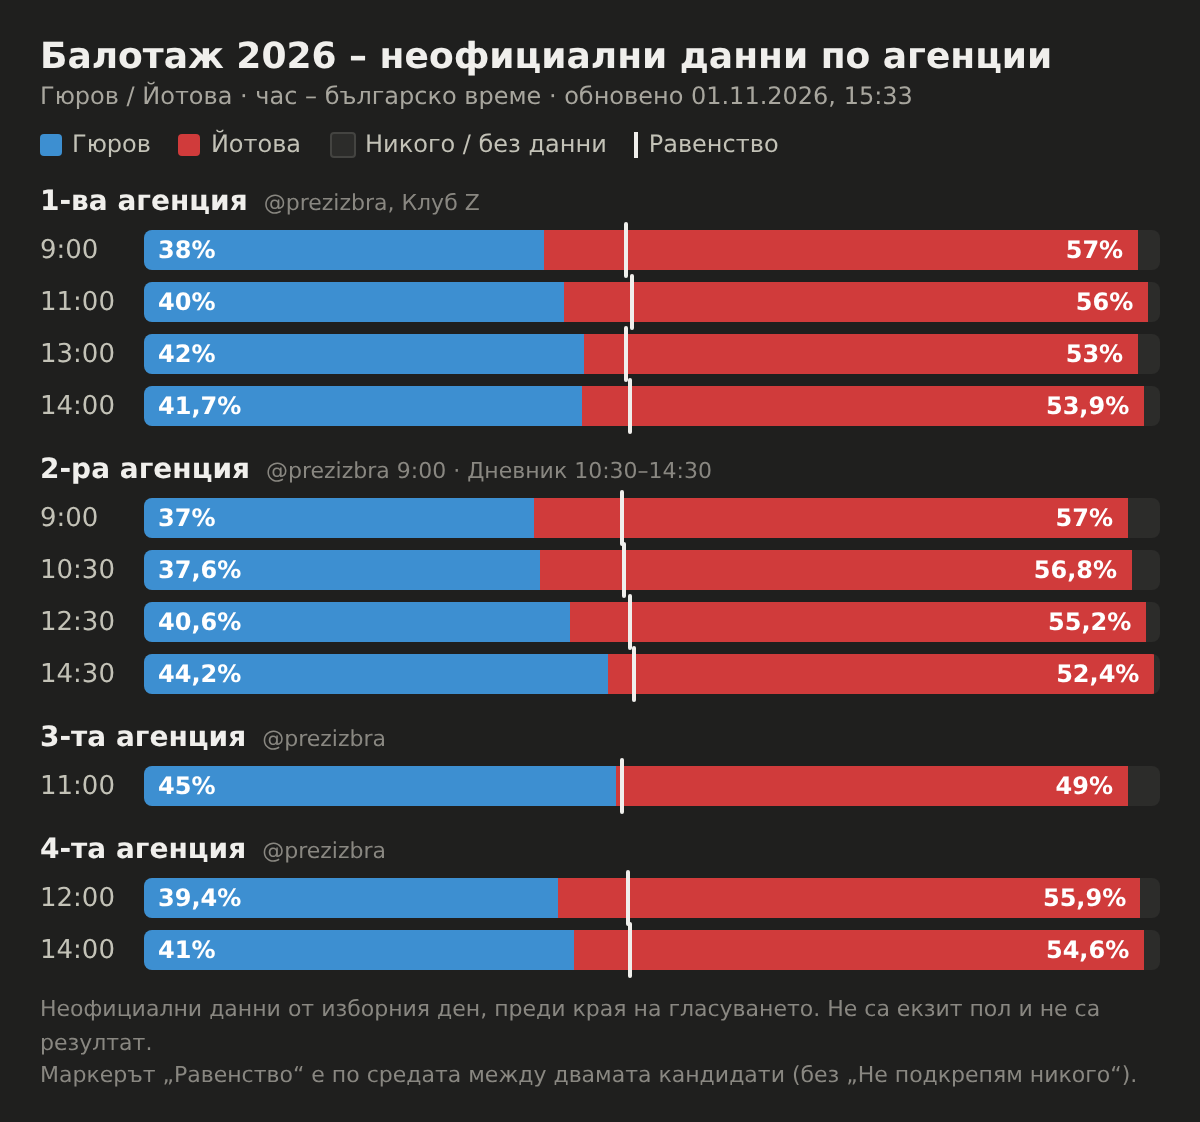
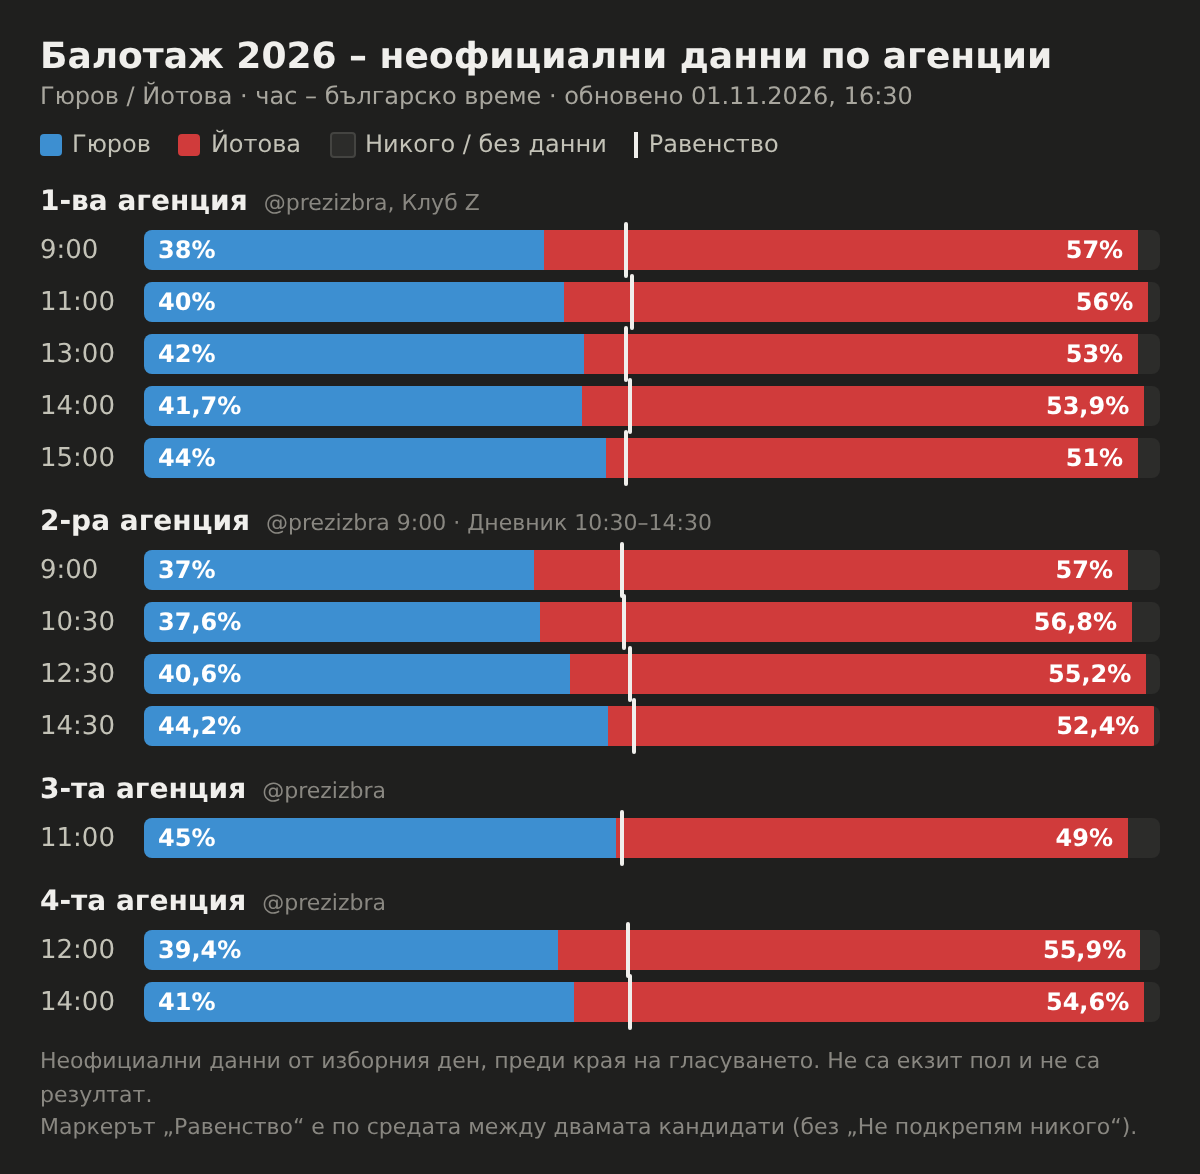
Балотаж 01.11.2026: обновяване 16:30 (1-ва агенция, 15:00)
Claude-Session: https://claude.ai/code/session_013Bd4dyu327vEa7zhwf3xyn

Changed region(s): [[0.0308, 0.0312, 0.9558, 0.967], [0.7708, 0.9358, 0.925, 0.967]]

diff --git a/bg-runoff-2026.11.01.html b/bg-runoff-2026.11.01.html
@@ -22,7 +22,7 @@ h1{font-size:18px;font-weight:600;margin:0 0 2px}
 .leg span{display:flex;align-items:center;gap:5px}
 .foot{font-size:11px;color:var(--text-muted);margin-top:12px;line-height:1.5}
 </style></head><body><div class="wrap">
-<h1>Балотаж 2026 – неофициални данни по агенции</h1><div class="sub">Гюров / Йотова · час – българско време · обновено 01.11.2026, 15:33</div>
+<h1>Балотаж 2026 – неофициални данни по агенции</h1><div class="sub">Гюров / Йотова · час – българско време · обновено 01.11.2026, 16:30</div>
 <div class="leg">
 <span><i style="width:11px;height:11px;border-radius:2px;background:#3d8fd1;display:inline-block"></i>Гюров</span>
 <span><i style="width:11px;height:11px;border-radius:2px;background:#d03b3b;display:inline-block"></i>Йотова</span>
@@ -33,7 +33,7 @@ h1{font-size:18px;font-weight:600;margin:0 0 2px}
 <div class="foot">Неофициални данни от изборния ден, преди края на гласуването. Не са екзит пол и не са резултат.<br>Маркерът „Равенство“ е по средата между двамата кандидати (без „Не подкрепям никого“).</div>
 </div>
 <script>
-const A=[["1-ва агенция", "@prezizbra, Клуб Z", [["9:00", 38, 57], ["11:00", 40, 56], ["13:00", 42, 53], ["14:00", 41.7, 53.9]]], ["2-ра агенция", "@prezizbra 9:00 · Дневник 10:30–14:30", [["9:00", 37, 57], ["10:30", 37.6, 56.8], ["12:30", 40.6, 55.2], ["14:30", 44.2, 52.4]]], ["3-та агенция", "@prezizbra", [["11:00", 45, 49]]], ["4-та агенция", "@prezizbra", [["12:00", 39.4, 55.9], ["14:00", 41, 54.6]]]];
+const A=[["1-ва агенция", "@prezizbra, Клуб Z", [["9:00", 38, 57], ["11:00", 40, 56], ["13:00", 42, 53], ["14:00", 41.7, 53.9], ["15:00", 44, 51]]], ["2-ра агенция", "@prezizbra 9:00 · Дневник 10:30–14:30", [["9:00", 37, 57], ["10:30", 37.6, 56.8], ["12:30", 40.6, 55.2], ["14:30", 44.2, 52.4]]], ["3-та агенция", "@prezizbra", [["11:00", 45, 49]]], ["4-та агенция", "@prezizbra", [["12:00", 39.4, 55.9], ["14:00", 41, 54.6]]]];
 const f=v=>String(v).replace('.',',')+'%';
 document.getElementById('w').innerHTML=A.map(a=>'<div class="ag">'+a[0]+'<span>'+a[1]+'</span></div>'+a[2].map(r=>{const eq=(r[1]+r[2])/2;return '<div class="r"><span class="t">'+r[0]+'</span><div class="box"><div class="trk"><div class="seg g" style="width:'+r[1]+'%;background:#3d8fd1">'+f(r[1])+'</div><div class="seg y" style="width:'+r[2]+'%;background:#d03b3b">'+f(r[2])+'</div></div><span class="mid" style="left:'+eq+'%"></span></div></div>'}).join('')).join('');
 </script></body></html>
